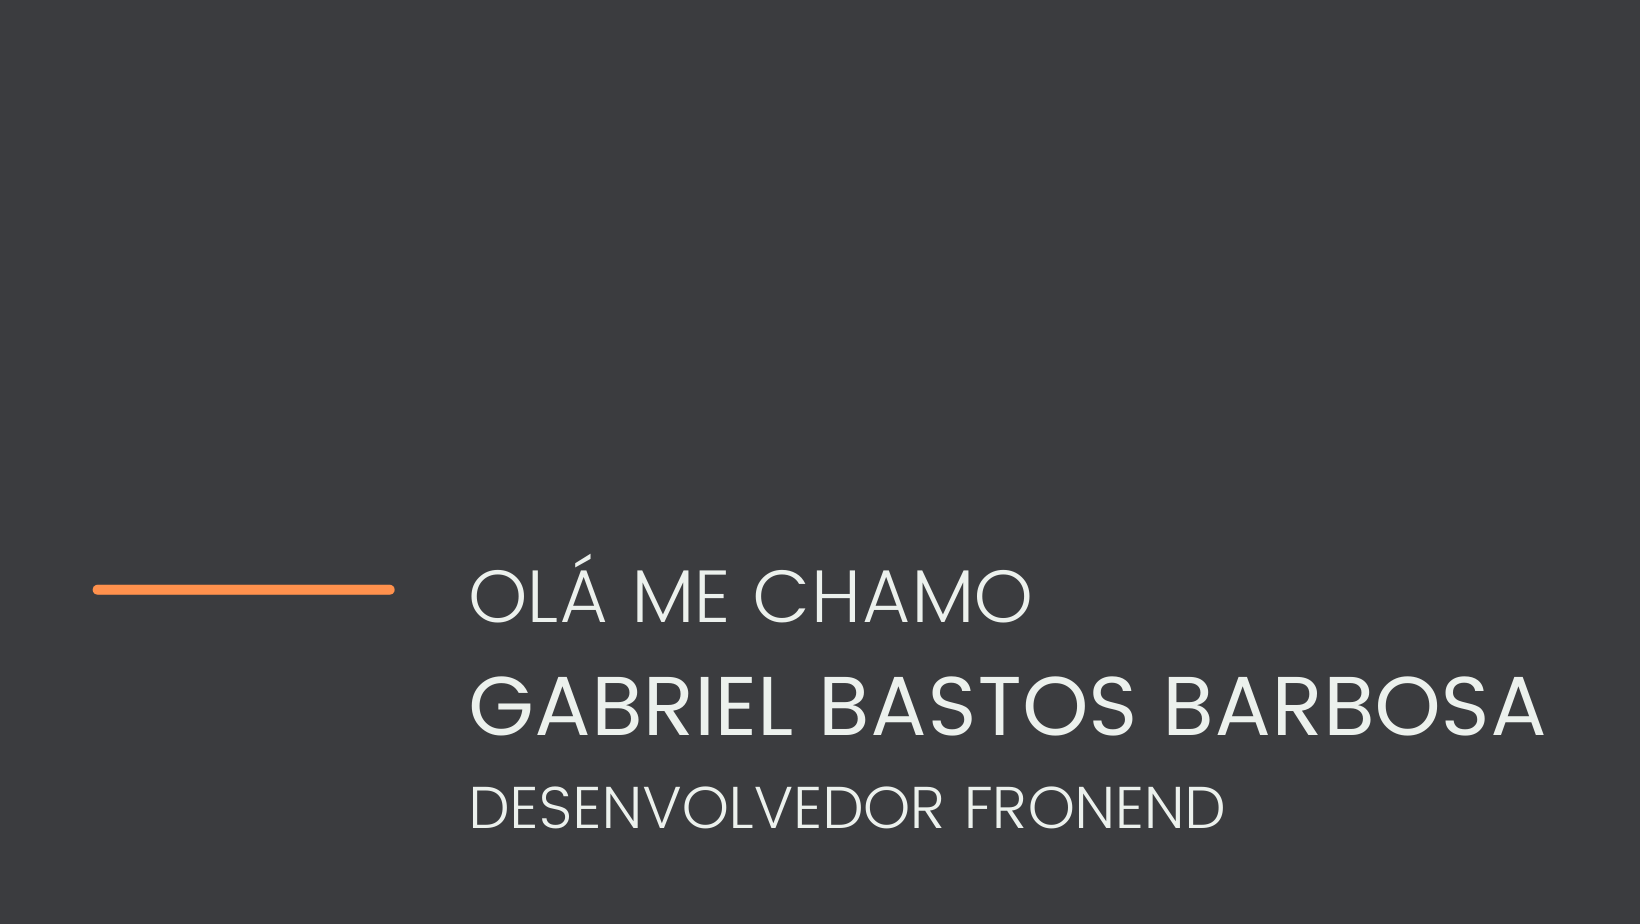
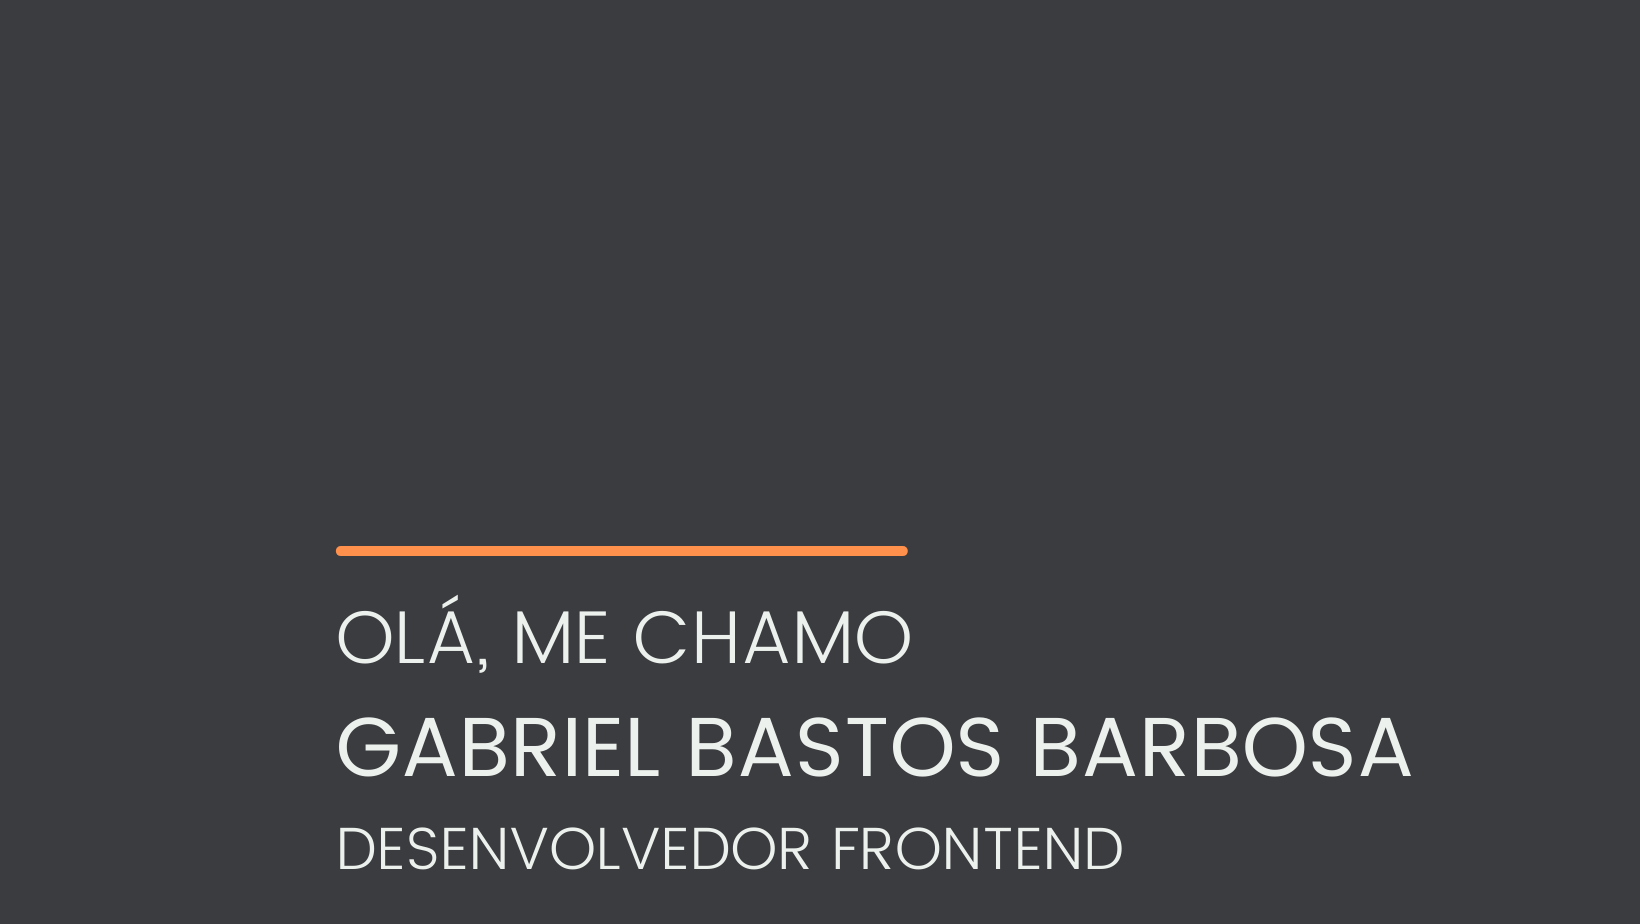
header

Changed region(s): [[0.0622, 0.5758, 0.964, 0.9394]]

diff --git a/src/app/components/template/sobre/sobre.component.html b/src/app/components/template/sobre/sobre.component.html
@@ -1,0 +1,46 @@
+<hr class="text-white">
+<div class="container">
+    <div class="row">
+        <div class="col">
+            <h1 class="text-white"> <span>< h1 ></span> um pouco SOBRE mim <span>< /h1 ></span></h1>
+        </div>
+
+        <div>
+            <span>< h2 ></span> um pouco SOBRE mim <span>< /h2 ></span>
+        </div>
+
+        <div class="text-white">
+            <span>< h2 ></span> Técnologias que trabalho atualmente: <span>< /h2 ></span>
+        </div>
+
+        <div>
+            <!-- icon html -->
+            <svg class="icon_html" xmlns="http://www.w3.org/2000/svg" viewBox="0 0 32 32"><title>file_type_html</title><polygon points="5.902 27.201 3.655 2 28.345 2 26.095 27.197 15.985 30 5.902 27.201" style="fill:#e44f26"/><polygon points="16 27.858 24.17 25.593 26.092 4.061 16 4.061 16 27.858" style="fill:#f1662a"/><polygon points="16 13.407 11.91 13.407 11.628 10.242 16 10.242 16 7.151 15.989 7.151 8.25 7.151 8.324 7.981 9.083 16.498 16 16.498 16 13.407" style="fill:#ebebeb"/><polygon points="16 21.434 15.986 21.438 12.544 20.509 12.324 18.044 10.651 18.044 9.221 18.044 9.654 22.896 15.986 24.654 16 24.65 16 21.434" style="fill:#ebebeb"/><polygon points="15.989 13.407 15.989 16.498 19.795 16.498 19.437 20.507 15.989 21.437 15.989 24.653 22.326 22.896 22.372 22.374 23.098 14.237 23.174 13.407 22.341 13.407 15.989 13.407" style="fill:#fff"/><polygon points="15.989 7.151 15.989 9.071 15.989 10.235 15.989 10.242 23.445 10.242 23.445 10.242 23.455 10.242 23.517 9.548 23.658 7.981 23.732 7.151 15.989 7.151" style="fill:#fff"/></svg>
+            
+            <!-- icon css  -->
+            <svg xmlns="http://www.w3.org/2000/svg" viewBox="0 0 32 32"><title>file_type_css</title><polygon points="5.902 27.201 3.656 2 28.344 2 26.095 27.197 15.985 30 5.902 27.201" style="fill:#1572b6"/><polygon points="16 27.858 24.17 25.593 26.092 4.061 16 4.061 16 27.858" style="fill:#33a9dc"/><polygon points="16 13.191 20.09 13.191 20.372 10.026 16 10.026 16 6.935 16.011 6.935 23.75 6.935 23.676 7.764 22.917 16.282 16 16.282 16 13.191" style="fill:#fff"/><polygon points="16.019 21.218 16.005 21.222 12.563 20.292 12.343 17.827 10.67 17.827 9.24 17.827 9.673 22.68 16.004 24.438 16.019 24.434 16.019 21.218" style="fill:#ebebeb"/><polygon points="19.827 16.151 19.455 20.29 16.008 21.22 16.008 24.436 22.344 22.68 22.391 22.158 22.928 16.151 19.827 16.151" style="fill:#fff"/><polygon points="16.011 6.935 16.011 8.855 16.011 10.018 16.011 10.026 8.555 10.026 8.555 10.026 8.545 10.026 8.483 9.331 8.342 7.764 8.268 6.935 16.011 6.935" style="fill:#ebebeb"/><polygon points="16 13.191 16 15.111 16 16.274 16 16.282 12.611 16.282 12.611 16.282 12.601 16.282 12.539 15.587 12.399 14.02 12.325 13.191 16 13.191" style="fill:#ebebeb"/></svg>
+            
+            <!-- icon bootstrap -->
+            <svg xmlns="http://www.w3.org/2000/svg" viewBox="0 0 128 128"><path fill="#5B4282" d="M75.701 65.603c-2.334-.768-5.694-.603-10.08-.603h-17.621v23h18.844c2.944 0 5.012-.315 6.203-.535 2.099-.376 3.854-1.104 5.264-1.982 1.409-.876 2.568-2.205 3.478-3.881.908-1.676 1.363-3.637 1.363-5.83 0-2.568-.658-4.54-1.975-6.436-1.316-1.896-3.141-2.965-5.476-3.733zM73.282 55.087c2.317-.688 4.064-1.89 5.239-3.487 1.176-1.598 1.763-3.631 1.763-6.044 0-2.286-.549-4.314-1.646-6.054s-2.662-2.413-4.699-3.056c-2.037-.641-5.53-.446-10.48-.446h-15.459v20h16.587c4.042 0 6.939-.38 8.695-.913zM126 18.625c0-9.182-7.443-16.625-16.625-16.625h-91.75c-9.182 0-16.625 7.443-16.625 16.625v91.75c0 9.182 7.443 16.625 16.625 16.625h91.75c9.182 0 16.625-7.443 16.625-16.625v-91.75zm-35.447 66.12c-1.362 2.773-3.047 4.911-5.052 6.415-2.006 1.504-4.521 2.78-7.544 3.548-3.022.769-6.728 1.292-11.113 1.292h-27.844v-69h27.42c5.264 0 9.485.609 12.665 2.002 3.181 1.395 5.671 3.497 7.474 6.395 1.801 2.898 2.702 5.907 2.702 9.071 0 2.945-.8 5.708-2.397 8.308-1.598 2.602-4.011 4.694-7.237 6.292 4.166 1.222 7.37 3.304 9.61 6.248 2.24 2.945 3.36 6.422 3.36 10.432 0 3.227-.681 6.225-2.044 8.997z"/></svg>
+            
+            <!-- icon js -->
+            <svg xmlns="http://www.w3.org/2000/svg" viewBox="0 0 32 32"><title>file_type_js_official</title><rect x="2" y="2" width="28" height="28" style="fill:#f5de19"/><path d="M20.809,23.875a2.866,2.866,0,0,0,2.6,1.6c1.09,0,1.787-.545,1.787-1.3,0-.9-.716-1.222-1.916-1.747l-.658-.282c-1.9-.809-3.16-1.822-3.16-3.964,0-1.973,1.5-3.476,3.853-3.476a3.889,3.889,0,0,1,3.742,2.107L25,18.128A1.789,1.789,0,0,0,23.311,17a1.145,1.145,0,0,0-1.259,1.128c0,.789.489,1.109,1.618,1.6l.658.282c2.236.959,3.5,1.936,3.5,4.133,0,2.369-1.861,3.667-4.36,3.667a5.055,5.055,0,0,1-4.795-2.691Zm-9.295.228c.413.733.789,1.353,1.693,1.353.864,0,1.41-.338,1.41-1.653V14.856h2.631v8.982c0,2.724-1.6,3.964-3.929,3.964a4.085,4.085,0,0,1-3.947-2.4Z"/></svg>
+            
+            <!-- icon angular -->
+            <svg xmlns="http://www.w3.org/2000/svg" width="32" height="32" viewBox="0 0 32 32">
+                <path d="M13.24 16.859h5.51l-2.755-6.542zM15.995 0.010l-15.078 5.307 2.297 19.677 12.781 6.995 12.786-6.984 2.297-19.688-15.083-5.302zM25.406 24.406h-3.516l-1.896-4.667h-8l-1.896 4.667h-3.516l9.411-20.865z"/>
+              </svg>
+            
+              <!-- icon react -->
+              <svg xmlns="http://www.w3.org/2000/svg" viewBox="0 0 128 128" enable-background="new 0 0 128 128"><g fill="#61DAFB"><circle cx="64" cy="64" r="11.4"/><path d="M107.3 45.2c-2.2-.8-4.5-1.6-6.9-2.3.6-2.4 1.1-4.8 1.5-7.1 2.1-13.2-.2-22.5-6.6-26.1-1.9-1.1-4-1.6-6.4-1.6-7 0-15.9 5.2-24.9 13.9-9-8.7-17.9-13.9-24.9-13.9-2.4 0-4.5.5-6.4 1.6-6.4 3.7-8.7 13-6.6 26.1.4 2.3.9 4.7 1.5 7.1-2.4.7-4.7 1.4-6.9 2.3-12.5 4.8-19.3 11.4-19.3 18.8s6.9 14 19.3 18.8c2.2.8 4.5 1.6 6.9 2.3-.6 2.4-1.1 4.8-1.5 7.1-2.1 13.2.2 22.5 6.6 26.1 1.9 1.1 4 1.6 6.4 1.6 7.1 0 16-5.2 24.9-13.9 9 8.7 17.9 13.9 24.9 13.9 2.4 0 4.5-.5 6.4-1.6 6.4-3.7 8.7-13 6.6-26.1-.4-2.3-.9-4.7-1.5-7.1 2.4-.7 4.7-1.4 6.9-2.3 12.5-4.8 19.3-11.4 19.3-18.8s-6.8-14-19.3-18.8zm-14.8-30.5c4.1 2.4 5.5 9.8 3.8 20.3-.3 2.1-.8 4.3-1.4 6.6-5.2-1.2-10.7-2-16.5-2.5-3.4-4.8-6.9-9.1-10.4-13 7.4-7.3 14.9-12.3 21-12.3 1.3 0 2.5.3 3.5.9zm-11.2 59.3c-1.8 3.2-3.9 6.4-6.1 9.6-3.7.3-7.4.4-11.2.4-3.9 0-7.6-.1-11.2-.4-2.2-3.2-4.2-6.4-6-9.6-1.9-3.3-3.7-6.7-5.3-10 1.6-3.3 3.4-6.7 5.3-10 1.8-3.2 3.9-6.4 6.1-9.6 3.7-.3 7.4-.4 11.2-.4 3.9 0 7.6.1 11.2.4 2.2 3.2 4.2 6.4 6 9.6 1.9 3.3 3.7 6.7 5.3 10-1.7 3.3-3.4 6.6-5.3 10zm8.3-3.3c1.5 3.5 2.7 6.9 3.8 10.3-3.4.8-7 1.4-10.8 1.9 1.2-1.9 2.5-3.9 3.6-6 1.2-2.1 2.3-4.2 3.4-6.2zm-25.6 27.1c-2.4-2.6-4.7-5.4-6.9-8.3 2.3.1 4.6.2 6.9.2 2.3 0 4.6-.1 6.9-.2-2.2 2.9-4.5 5.7-6.9 8.3zm-18.6-15c-3.8-.5-7.4-1.1-10.8-1.9 1.1-3.3 2.3-6.8 3.8-10.3 1.1 2 2.2 4.1 3.4 6.1 1.2 2.2 2.4 4.1 3.6 6.1zm-7-25.5c-1.5-3.5-2.7-6.9-3.8-10.3 3.4-.8 7-1.4 10.8-1.9-1.2 1.9-2.5 3.9-3.6 6-1.2 2.1-2.3 4.2-3.4 6.2zm25.6-27.1c2.4 2.6 4.7 5.4 6.9 8.3-2.3-.1-4.6-.2-6.9-.2-2.3 0-4.6.1-6.9.2 2.2-2.9 4.5-5.7 6.9-8.3zm22.2 21l-3.6-6c3.8.5 7.4 1.1 10.8 1.9-1.1 3.3-2.3 6.8-3.8 10.3-1.1-2.1-2.2-4.2-3.4-6.2zm-54.5-16.2c-1.7-10.5-.3-17.9 3.8-20.3 1-.6 2.2-.9 3.5-.9 6 0 13.5 4.9 21 12.3-3.5 3.8-7 8.2-10.4 13-5.8.5-11.3 1.4-16.5 2.5-.6-2.3-1-4.5-1.4-6.6zm-24.7 29c0-4.7 5.7-9.7 15.7-13.4 2-.8 4.2-1.5 6.4-2.1 1.6 5 3.6 10.3 6 15.6-2.4 5.3-4.5 10.5-6 15.5-13.8-4-22.1-10-22.1-15.6zm28.5 49.3c-4.1-2.4-5.5-9.8-3.8-20.3.3-2.1.8-4.3 1.4-6.6 5.2 1.2 10.7 2 16.5 2.5 3.4 4.8 6.9 9.1 10.4 13-7.4 7.3-14.9 12.3-21 12.3-1.3 0-2.5-.3-3.5-.9zm60.8-20.3c1.7 10.5.3 17.9-3.8 20.3-1 .6-2.2.9-3.5.9-6 0-13.5-4.9-21-12.3 3.5-3.8 7-8.2 10.4-13 5.8-.5 11.3-1.4 16.5-2.5.6 2.3 1 4.5 1.4 6.6zm9-15.6c-2 .8-4.2 1.5-6.4 2.1-1.6-5-3.6-10.3-6-15.6 2.4-5.3 4.5-10.5 6-15.5 13.8 4 22.1 10 22.1 15.6 0 4.7-5.8 9.7-15.7 13.4z"/></g></svg>
+            
+              <!-- icon figma -->
+              <svg id="Flat" xmlns="http://www.w3.org/2000/svg" viewBox="0 0 256 256">
+                <path d="M178.94238,94.00049A37.991,37.991,0,0,0,162,22.001H94A37.991,37.991,0,0,0,77.05762,94.00049,37.97671,37.97671,0,0,0,77.05811,162,37.99416,37.99416,0,1,0,132,195.99951V151.28223a37.98414,37.98414,0,1,0,46.94238-57.28174ZM192,60.001a30.03343,30.03343,0,0,1-29.98047,29.99951L162,90l-.03857.001L132,90V30.001h30A30.03406,30.03406,0,0,1,192,60.001ZM138.71729,98.00024A38.32407,38.32407,0,0,0,132,104.71777V98.00012ZM64,60.001a30.03406,30.03406,0,0,1,30-30h30V90H94l-.019.00049A30.03392,30.03392,0,0,1,64,60.001ZM94,225.999A29.99951,29.99951,0,1,1,94,166l30-.00085v30.00036A30.03364,30.03364,0,0,1,94,225.999Zm30-68L94,158a29.99976,29.99976,0,0,1-.019-59.99951L94,98.001l30-.00086ZM162,158a29.99952,29.99952,0,0,1-.03857-59.999H162l.019-.00049A29.99976,29.99976,0,0,1,162,158Z"/>
+              </svg>
+        </div>
+        
+    </div>
+</div>
+
+

diff --git a/src/app/components/template/header/header.component.html b/src/app/components/template/header/header.component.html
@@ -4,9 +4,23 @@
             <img src="/assets/img/eu.png" class="img-fluid" alt="foto do desenvolvedor">
         </div>
 
+        
+        <!-- <div class="col-xxl-6 col-xl-6 col-sm-12 col-md-12 col-12"> -->
+            
         <div class="col-xxl-6 col-xl-6 col-sm-12 col-md-12 col-12">
-            <img src="/assets/img/intro.png" class="img-fluid" alt="olá me chamo Gabriel Bastos Barbosa, Desenvolvedor frontend">
+            <!-- <img src="/assets/img/intro.png" class="img-fluid img_intro" alt="olá me chamo Gabriel Bastos Barbosa, Desenvolvedor frontend"> -->
+            <hr class="col-4">       
+            
+                    <p> Olá, Me chamo</p>
+                    <p> GABRIEL BASTOS</p>
+                    <p> Desenvolvedor Front</p>
+                    
+              
+                <a class="icon_github" href="https://github.com/devbastos"><i class="bi bi-github"></i></a>
+                <a href="https://www.linkedin.com/in/gabriel-bastos-barbosa-2315b71b9/"><i class="bi bi-linkedin"></i></a>
+                <a href="https://instagram.com/bastos_gabriel13?utm_medium=copy_link"><i class="bi bi-instagram"></i></a>
+                <a href="https://api.whatsapp.com/send?phone=5511971868122&text=Ol%C3%A1%2CGabriel"><i class="bi bi-whatsapp"></i></a>       
+                   
         </div>
-
     </div>
 </div>

diff --git a/src/app/components/template/nav/nav.component.html b/src/app/components/template/nav/nav.component.html
@@ -1,13 +1,13 @@
 <div class="container-fluid">
     <div class="row">
-        <nav class="navbar navbar-expand-lg navbar-dark border-bottom shadow-sm mb-3">
+        <nav class="navbar navbar-expand-lg navbar-dark">
             <div class="container">
 
                 <button class="navbar-toggler" type="button" data-bs-toggle="collapse" data-bs-target=".navbar-collapse"><span class="navbar-toggler-icon"></span></button>
                 <div class="navbar-collapse collapse">
 
                     <ul class="navbar-nav">
-                        <li class="nav-item">
+                        <li class="nav">
                             <a class="nav-link text-white">
                                 <img src="/assets/img/logo.png" class="rounded float-start" alt="Logo">
                             </a>

diff --git a/src/index.html b/src/index.html
@@ -7,6 +7,7 @@
     <base href="/">
     <meta name="viewport" content="width=device-width, initial-scale=1">
     <link rel="icon" type="image/x-icon" href="favicon.ico">
+    <link rel="stylesheet" href="https://cdn.jsdelivr.net/npm/bootstrap-icons@1.7.2/font/bootstrap-icons.css">
     <link href="https://cdn.jsdelivr.net/npm/bootstrap@5.1.3/dist/css/bootstrap.min.css" rel="stylesheet" integrity="sha384-1BmE4kWBq78iYhFldvKuhfTAU6auU8tT94WrHftjDbrCEXSU1oBoqyl2QvZ6jIW3" crossorigin="anonymous">
     <link rel="stylesheet" href="/frontend/node_modules/bootstrap-icons/font/bootstrap-icons.css">
     <link rel="preconnect" href="https://fonts.gstatic.com">

diff --git a/src/app/app.module.ts b/src/app/app.module.ts
@@ -6,12 +6,14 @@ import { AppComponent } from './app.component';
 import { BrowserAnimationsModule } from '@angular/platform-browser/animations';
 import { NavComponent } from './components/template/nav/nav.component';
 import { HeaderComponent } from './components/template/header/header.component';
+import { SobreComponent } from './components/template/sobre/sobre.component';
 
 @NgModule({
   declarations: [
     AppComponent,
     NavComponent,
     HeaderComponent,
+    SobreComponent,
   ],
   imports: [
     BrowserModule,

diff --git a/src/app/components/template/header/header.component.css b/src/app/components/template/header/header.component.css
@@ -1,0 +1,29 @@
+
+/* .icon_github{
+    margin-left:10.7rem;
+} */
+hr {
+   
+    border-bottom:  3px solid #ff914d;
+}
+
+p{
+    font-size: 40px;
+    margin-top: 2rem;
+    margin-bottom: 2rem;
+    color: white;
+}
+
+.bi {
+    color: white;
+    font-size: 2rem;
+    margin: 0.5rem;
+
+}
+
+.bi:hover {
+    color: #FF914D;
+    font-size: 1.8rem;
+    transform: scale(1, 1);
+    transition: 0.2s ease;
+}

diff --git a/src/app/components/template/nav/nav.component.css b/src/app/components/template/nav/nav.component.css
@@ -6,12 +6,18 @@
 .navbar {
     background-color: #3B3C3F;
     font-size: 2rem;
-    margin: 1rem;
+    margin:0.5rem;
+
 }
 
 img {
     width: 15rem;
     margin-left: 5rem;
+}
+
+
+.nav-item {
+    margin:0.5rem;
 }
 
 .nav-item :hover {
@@ -20,6 +26,7 @@ img {
     text-decoration: underline 3px #ff914d;
     transform: scale(1, 1);
     transition: 0.6s ease;
+    
 }
 
 .home {

diff --git a/src/app/components/template/sobre/sobre.component.ts b/src/app/components/template/sobre/sobre.component.ts
@@ -1,0 +1,15 @@
+import { Component, OnInit } from '@angular/core';
+
+@Component({
+  selector: 'app-sobre',
+  templateUrl: './sobre.component.html',
+  styleUrls: ['./sobre.component.css']
+})
+export class SobreComponent implements OnInit {
+
+  constructor() { }
+
+  ngOnInit(): void {
+  }
+
+}

diff --git a/src/styles.css b/src/styles.css
@@ -17,4 +17,4 @@ body {
 }
 
 @import "/node_modules/bootstrap/dist/css/bootstrap.css";
-@import "https://cdn.jsdelivr.net/npm/bootstrap-icons@1.7.2/font/bootstrap-icons.css"
+@import url("https://cdn.jsdelivr.net/npm/bootstrap-icons@1.7.2/font/bootstrap-icons.css");

diff --git a/src/app/components/template/sobre/sobre.component.css b/src/app/components/template/sobre/sobre.component.css
@@ -1,0 +1,10 @@
+svg {
+    max-width: 2rem;
+    color:white;    
+    margin-left:0.2rem;
+    margin-top: 1rem;
+}
+
+span{
+    color: #FF914D;
+}

diff --git a/src/app/app.component.html b/src/app/app.component.html
@@ -1,2 +1,3 @@
 <app-nav></app-nav>
 <app-header></app-header>
+<app-sobre></app-sobre>
